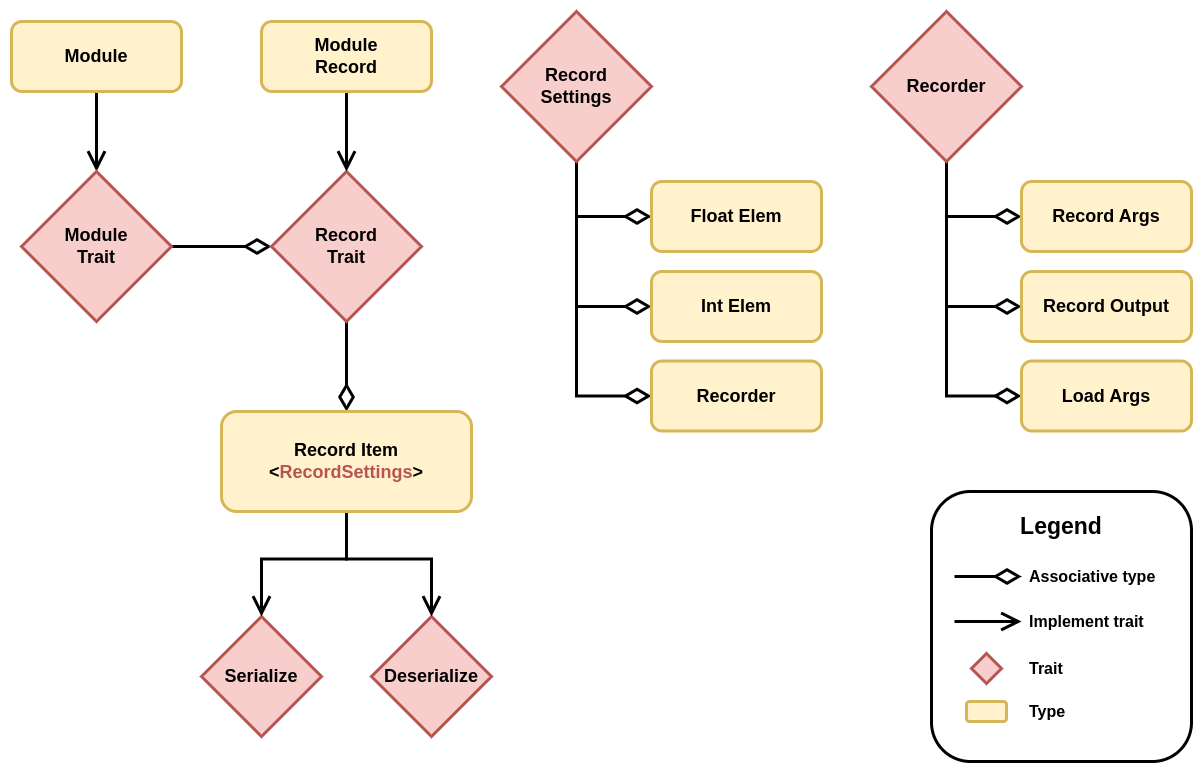
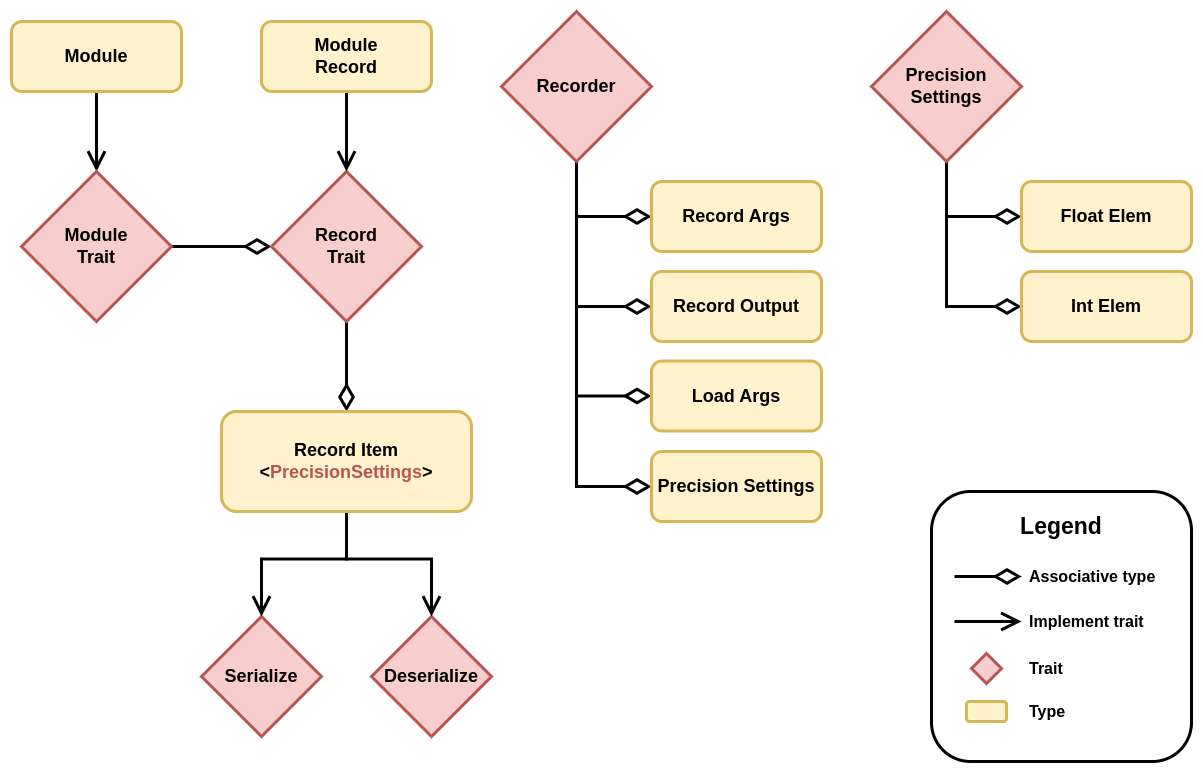
doc: update record architecture doc

diff --git a/ARCHITECTURE.md b/ARCHITECTURE.md
@@ -122,19 +122,18 @@ The way the types interact with each other is pretty straightforward.
 First, a module can be converted into a record using `into_record()`.
 Note that tensors can be cloned, but it won't actually copy any data; it will create another reference to the same data.
 
-Then, you can call `record()`, which takes a `RecordSettings` as a parameter.
-The function is automatically implemented for each record.
-It calls `into_item::<RecordSettings>()` on the record, which creates a serializable item following the given settings.
+Then, a `Recorder` instance can be used to serialize any record.
+The `Recorder` has the `PrecisionSettings` type as associate type, so any record will be serialized using the settings provided at the creation of the `Recorder` instance.
 Note that tensors implement record, and their item is just a wrapper struct that contains information about the precision in which the tensor should be saved or loaded.
 No actual copy of the tensor is made until this point.
 The tensor is converted to the `Data` struct and then converted into the specified precision only when `serialize()` or `deserialize()` are called, which makes the whole process lazy.
 
 To recapitulate, the `Module` trait has an associated type that implements `Record`, which only contains the parameters of the model.
-The `Record` trait has a generic associated type (GAT) that specifies a family of types that can be (de)serialized given any `RecordSettings`.
+The `Record` trait has a generic associated type (GAT) that specifies a family of types that can be (de)serialized given any `PrecisionSettings`.
 Records are therefore decoupled from the backend in use, and the saved items can be loaded on any backend with any precision, since the conversion is type-safe and done when `serialize()` and `deserialize()` are called.
 All of the types are generated using simple derive macros without any conditional statements or complex syntax, as `Record` and `Module` are implemented for all primitive types.
 This makes the code simple and easy to maintain.
-In addition, you can extend the current system with your own `Recorder` and `RecordSettings` to control how your modules should be saved and loaded.
+In addition, you can extend the current system with your own `Recorder` and `PrecisionSettings` to control how your modules should be saved and loaded.
 
 ##### Pros
 
